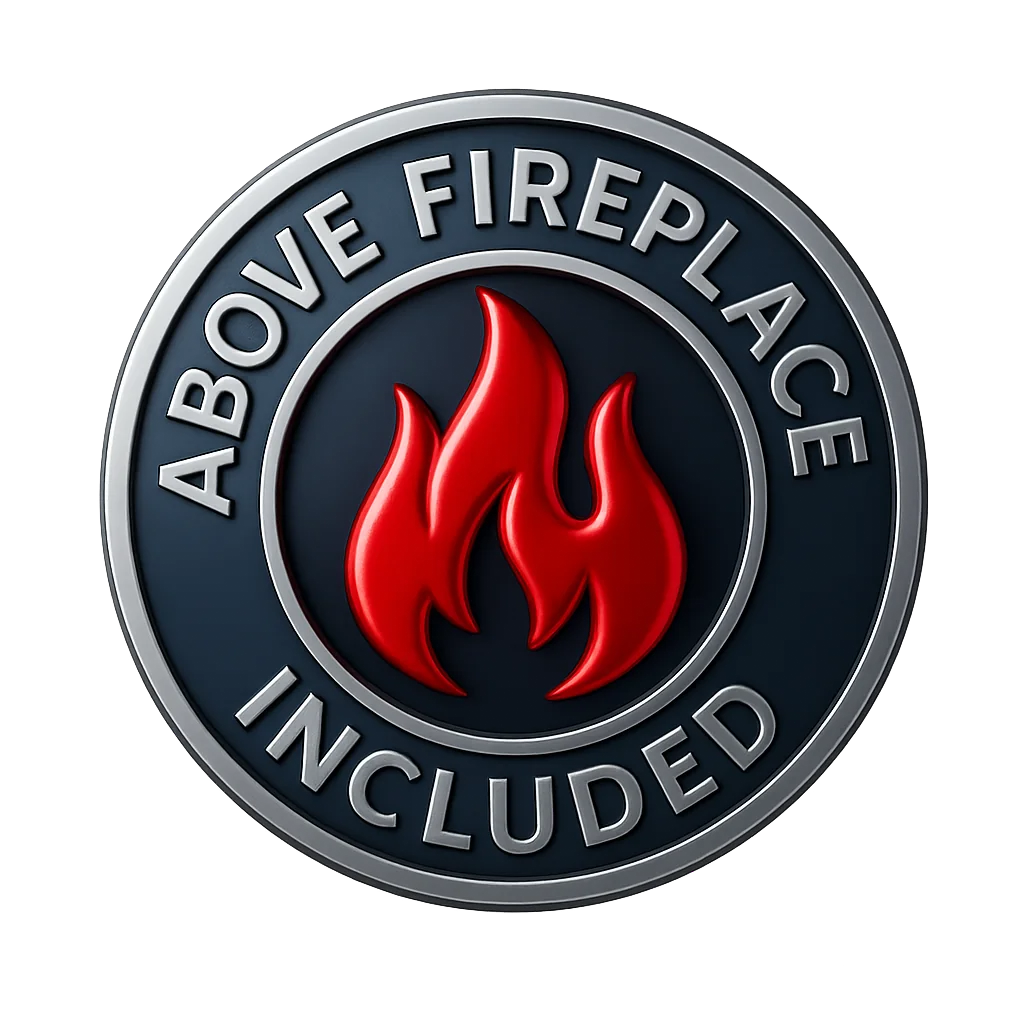
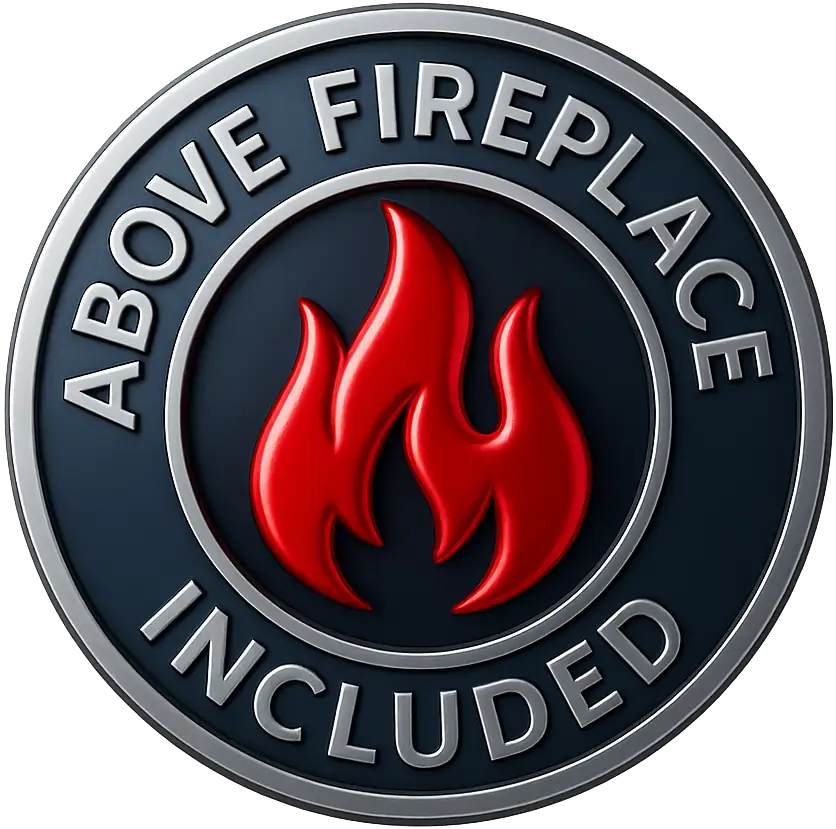
bages

diff --git a/src/blocks/Hero/Hero.js b/src/blocks/Hero/Hero.js
@@ -6,6 +6,11 @@ import dynamic from "next/dynamic";
 import QuoteButton from "@/ui/QuoteButton/QuoteButton";
 import Text from "@/ui/Text/Text";
 import Head from "next/head";
+import Image from "next/image";
+import OneYearWarantyImg from "@/assets/badges/1yearwaranty.webp"
+import FiveStarImg from "@/assets/badges/5star.webp"
+import SevenDaysImg from "@/assets/badges/7days.webp"
+import AboveFireplaceImg from "@/assets/badges/abovefireplace.webp"
 
 // Dynamically import VideoPlayer with lazy loading
 const VideoPlayer = dynamic(() => import("./components/VideoPlayer"), {
@@ -60,14 +65,18 @@ export default async function Hero() {
             <QuoteButton>Book With Discount</QuoteButton>
           </div>
           <div className={styles.badgesWrapper}>
-              {heroData.badges.map(badge => (
+              {/* {heroData.badges.map(badge => (
                 <ImageWrapper
                   className={styles.badge}
                   key={badge.id}
                   media={badge}
                   defaultAlt="badge"
                 />
-              ))}
+              ))} */}
+              <Image src={OneYearWarantyImg} width={94} height={64}/>
+              <Image src={FiveStarImg} width={72} height={72}/>
+              <Image src={SevenDaysImg} width={158} height={56}/>
+              <Image src={AboveFireplaceImg} width={72} height={72}/>
           </div>
         </div>
       </div>
